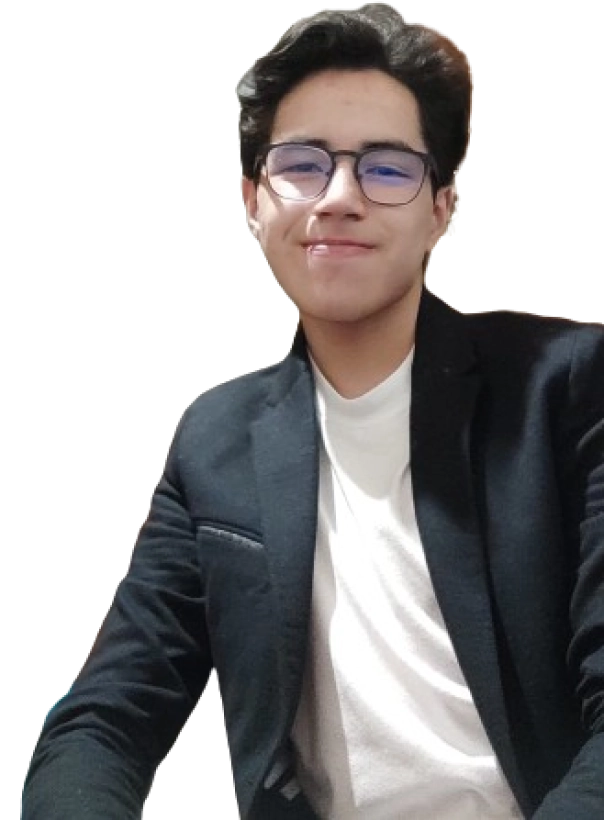
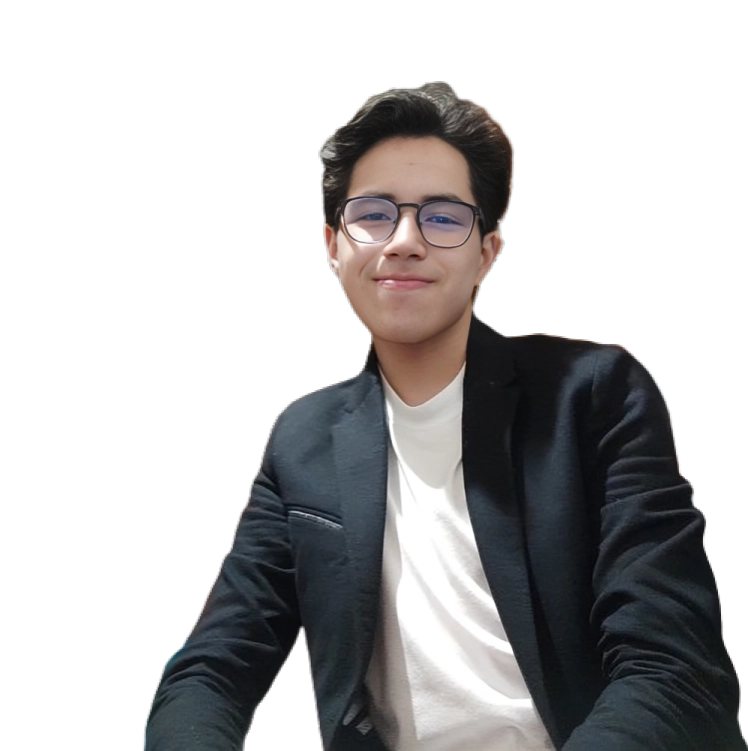
Responsive first section - Button styles on hover

diff --git a/front-end/src/styles/App.css b/front-end/src/styles/App.css
@@ -12,14 +12,36 @@ body {
 }
 
 .section-container {
-    height: 100vh;
     width: 100vw;
+    height: 100vh;
     background-size: cover;
+}
+
+@media screen and (orientation: landscape) {
+    /* Your CSS rules for horizontal screen */
+    .section-container {
+        height: fit-content;
+    }
+}
+
+/* GENERAL */
+.title-text {
+    color: #FFF;
+    font-size: clamp(1rem, 2.5vw, 3rem);
+    text-shadow: calc(3px + 0.15vw) calc(3px + 0.15vw) 0 #000;
+    margin: 0;
+}
+
+.subtitle-text {
+    font-size: clamp(0.8rem, 1.5vw, 2rem);
+    text-shadow: calc(2px + 0.15vw) calc(2px + 0.15vw) 0 #000;
+    margin: 0;
 }
 
 /* HEADER */
 
 header {
+    position: relative;
     background-image: url('../assets/header-bg.webp');
     background-size: cover;
     display: flex;
@@ -27,41 +49,36 @@ header {
     justify-content: center;
     align-items: center;
     text-align: center;
-    padding: 0 1rem;
-}
-
-h1 {
-    color: #FFF;
-    font-size: clamp(1.25rem, 2.5vw, 3rem);
-    margin: 0;
+    padding: 1rem;
 }
 
 #role {
+    margin: 15px 0;
     color: #FFE500;
-    font-size: clamp(0.9rem, 1.5vw, 2rem);
 }
 
 #role-focus {
     margin: 0;
     color: #00F9CC;
-    font-size: clamp(0.9rem, 1.5vw, 2rem);
 }
 
 #profile-photo {
-    height: calc(200px + 10vw);
+    height: calc(100px + 30vw);
     width: fit-content ;
     border-radius: 50%;
     align-self: center;
     border-bottom: 1px solid #CF28A7;
+    margin: calc(10px + 2vw) 0 calc(20px + 5vw) 0;
 }
 
 #socials-cv {
-    width: 100%;
+    width: 90%;
     display: flex;
     justify-content: center;
     align-items: center;
     flex-wrap: wrap;
-    gap: 10%
+    gap: calc(35px + 10%);
+    row-gap: calc(15px + 5vw);
 }
 
 #socials-cv a img {
@@ -85,4 +102,41 @@ h1 {
 
 #about-me {
     background-image: url('../assets/aboutMe-bg.webp');
+}
+
+@media (width >= 768px) {
+    .section-container {
+        height: 100vh;
+    }
+}
+
+/* HEADER MEDIA QUERIES */
+@media (width > 768px) {
+
+    header {
+        align-items: start;
+        padding: 0 4rem;
+        text-align: left;
+    }
+    
+    #profile-photo {
+        position: absolute;
+        bottom: 0;
+        right: 0;
+        height: calc(160px + 30vw);
+        border-radius: 0%;
+        border-bottom: none;
+        margin: 0;
+    }
+
+    #role {
+        margin: 5vh 0;
+    }
+
+    #socials-cv {
+        position: absolute;
+        bottom: 10vh;
+        justify-content: start;
+    }
+
 }

diff --git a/front-end/src/styles/PixelButton.css b/front-end/src/styles/PixelButton.css
@@ -1,14 +1,26 @@
 button {
     position: relative;
     height: calc(30px + 3vw);
-    width: clamp(125px, 15vw, 400px);
-    padding: 0 2vw;
-    margin: 0 calc(clamp(125px, 15vw, 400px) * 0.1);
+    width: clamp(135px, 15vw, 400px);
+    padding: 0 1.5vw;
+    margin: 0 calc(clamp(135px, 15vw, 400px) * 0.1);
     background-color: #000;
     border: none;
     color: #FFE500;
+    text-shadow: 2px 2px 0 #6C6549;
     font-family: 'Press Start 2P', system-ui, -apple-system, BlinkMacSystemFont, 'Segoe UI', Roboto, Oxygen, Ubuntu, Cantarell, 'Open Sans', 'Helvetica Neue', sans-serif;
     font-size: clamp(0.6rem, 1vw, 2rem);
+    border-left: 1px solid #FFF;
+    border-right: 1px solid #FFF;
+    transition: all 0.6s ease;
+}
+
+button:hover, button:hover #layer-1, button:hover #layer-2{
+    cursor: pointer;
+    border-left: 1px solid #FFFFFF00;
+    border-right: 1px solid #FFFFFF00;
+    background-color: #FFFFFF44;
+    
 }
 
 button span {
@@ -23,6 +35,9 @@ button span {
     width: 110%;
     height: 80%;
     background-color: #000;
+    border-left: 1px solid #FFF;
+    border-right: 1px solid #FFF;
+    transition: all 0.4s ease;
 }
 
 #layer-2 {
@@ -32,4 +47,7 @@ button span {
     width: 120%;
     height: 60%;
     background-color: #000;
+    border-left: 1px solid #FFF;
+    border-right: 1px solid #FFF;
+    transition: all 0.2s ease;
 }

diff --git a/front-end/src/App.tsx b/front-end/src/App.tsx
@@ -10,18 +10,18 @@ export function App() {
       <nav></nav>
 
       <header className="section-container">
-        <h1>
+        <h1 className="title-text">
           Hi!
           <br />
           I'm MARTÍN MENDIETA
         </h1>
-        <h2 id="role">Software Engineering Student</h2>
-        <h2 id="role-focus">&lt; Front-end /&gt;</h2>
+        <h2 id="role" className="subtitle-text">Software Engineering Student</h2>
+        <h2 id="role-focus" className="subtitle-text">&lt; Front-end /&gt;</h2>
         <img id="profile-photo" src={profilePhoto} alt="Martín Mendieta profile photo" />
         <div id="socials-cv">
           <a href=""><img src={githubIcon} alt="Github icon" /></a>
           <a href=""><img src={linkedinIcon} alt="Linkedin icon" /></a>
-          <PixelButton text="Download CV" onClick={() => { }} />
+          <PixelButton text="Download CV" onClick={() => {}} />
         </div>
       </header>
 
